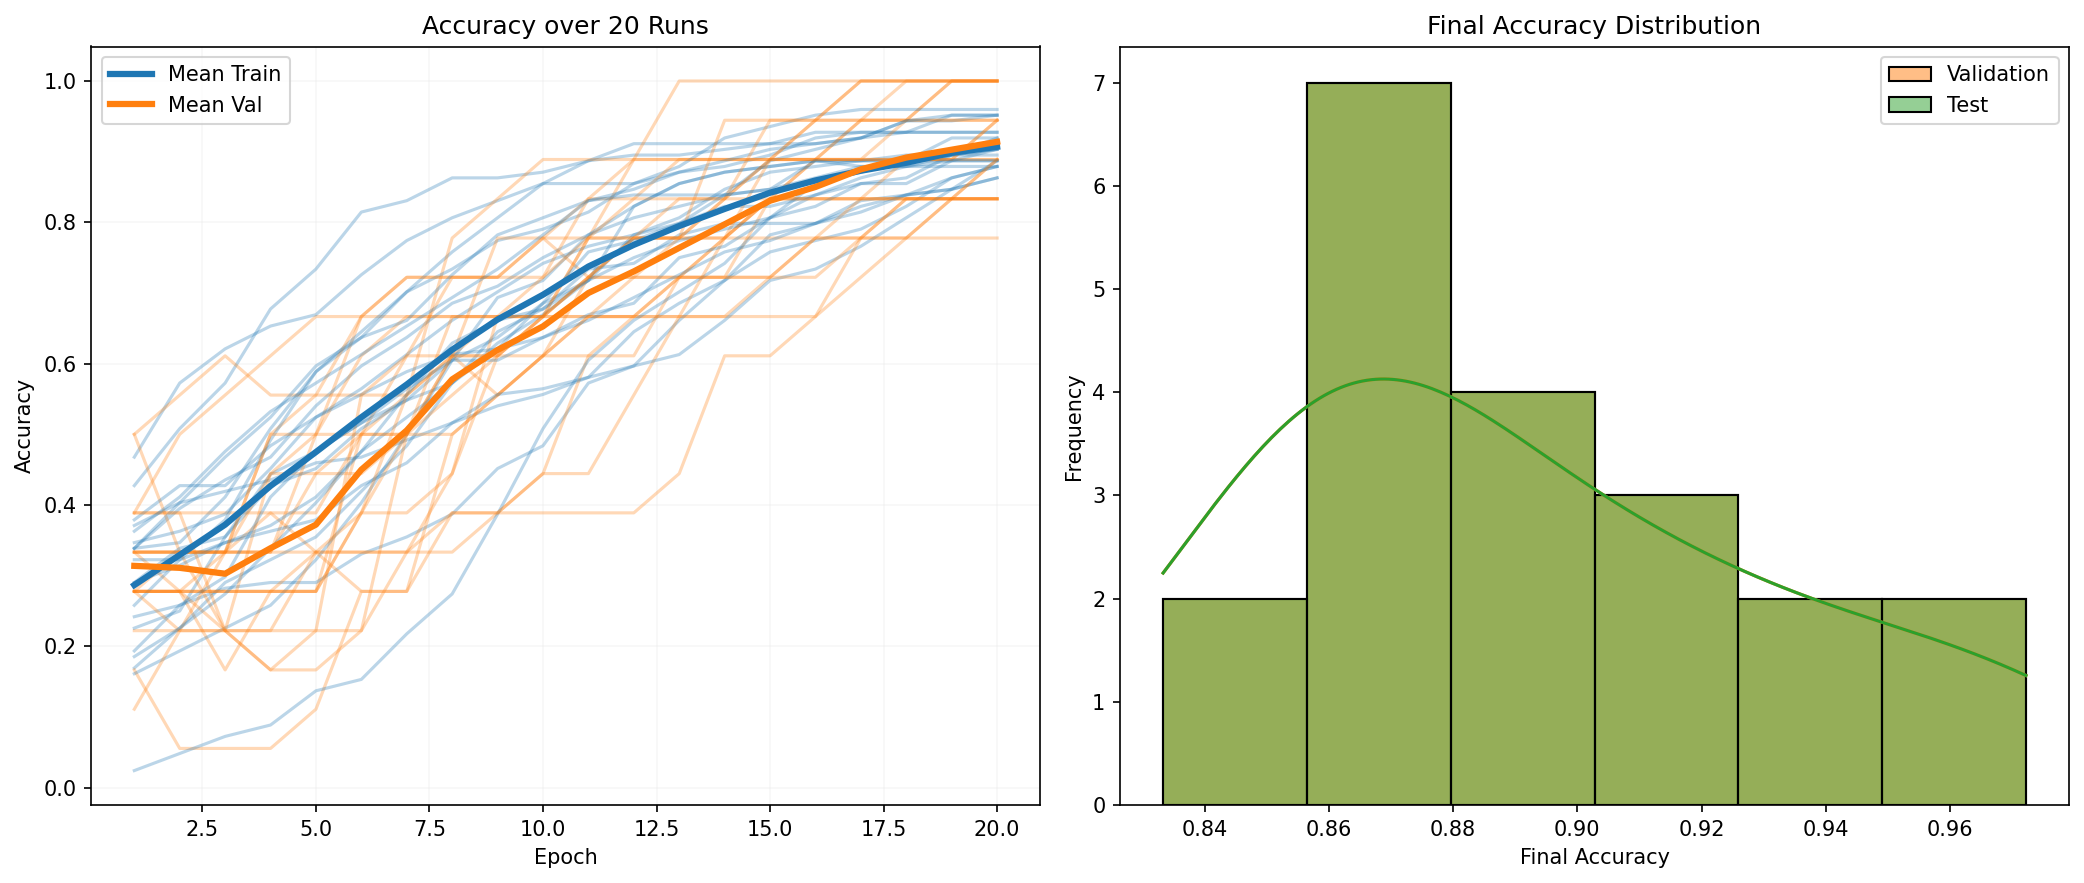
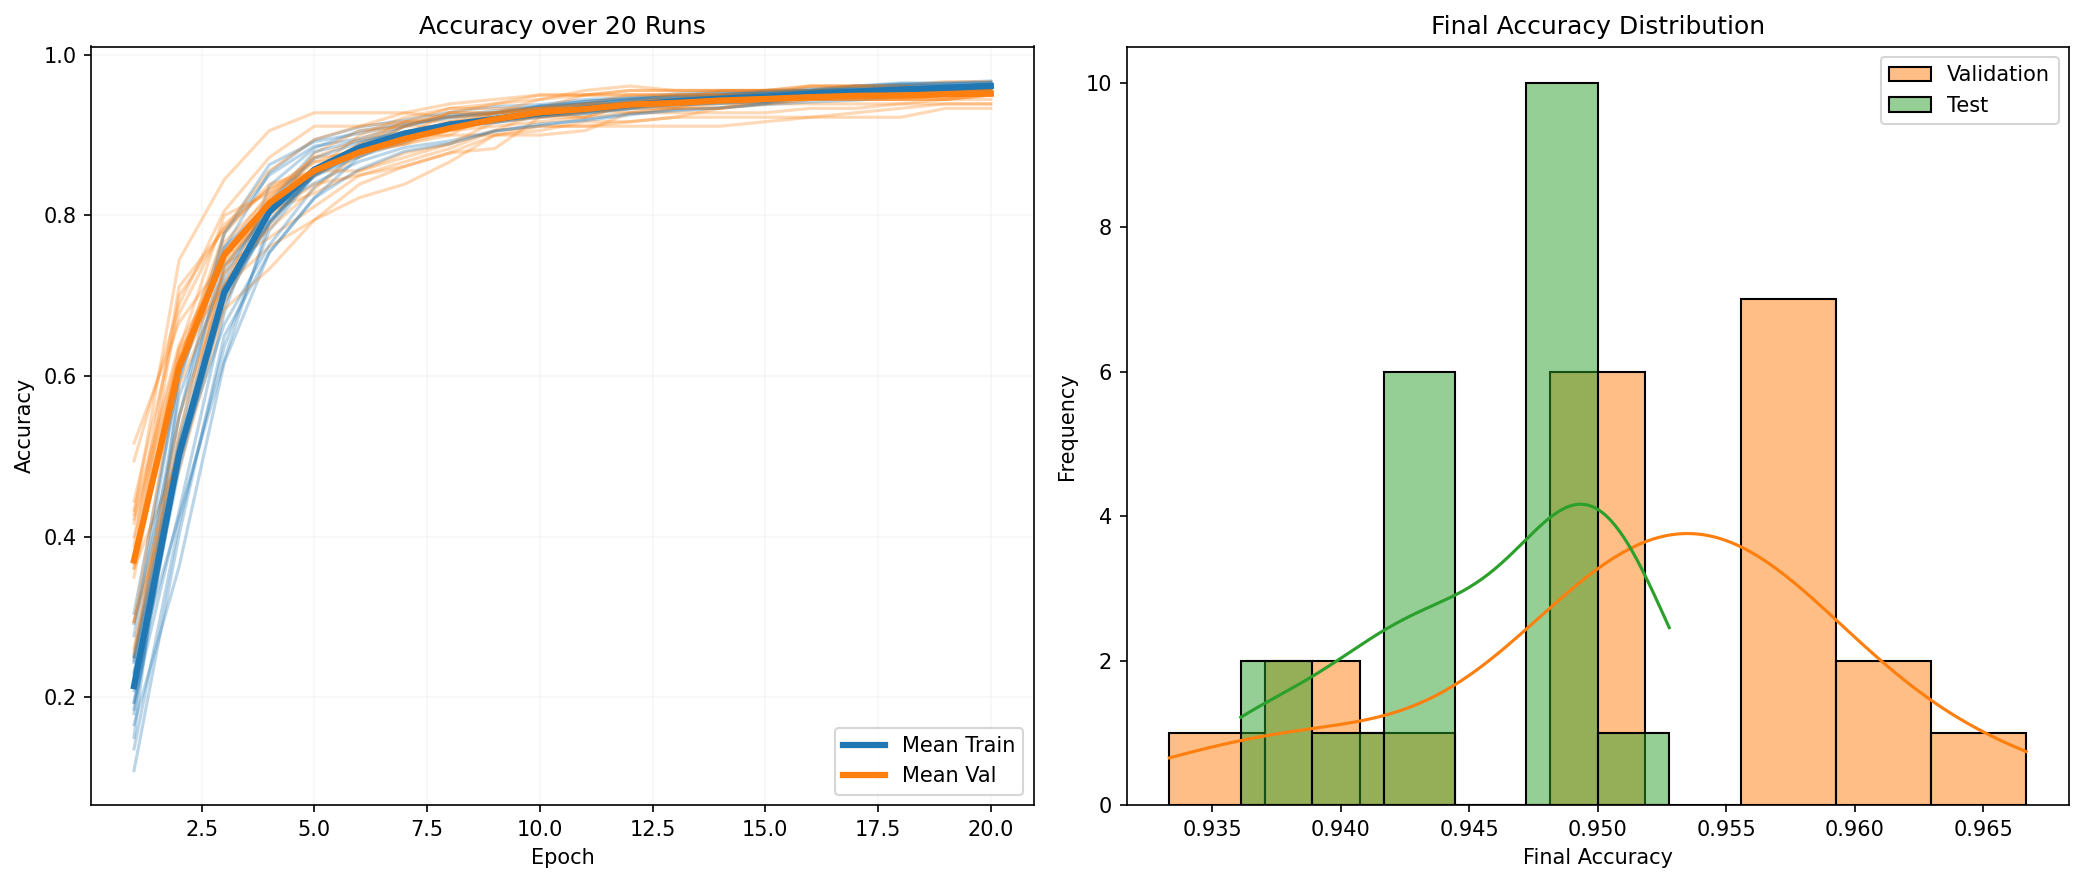
docs(readme): quick start on the digits data with a small Keras net
The 0.5.0 quick start trained a Keras net on wine, whose stratified
validation set has 18 examples, and needed a comment explaining why its
BatchNormalization layer used momentum=0.9. A first-time reader should
not need that.

The quick start now uses load_digits with a fixed Rescaling(1/16) input
layer (nothing is fitted to the data, so nothing leaks from the splits),
Dense(32) and Dense(10). The printed summary is the real output of the
code shown (TensorFlow 2.21, Keras 3.15, CPU), reproduced identically
from the README text: validation accuracy 93.3% to 96.7% across seeds
(168 to 174 of 180), test sampling error +/-1.2 pp. The paragraph below
is updated to match and keeps "no number of runs reduces it".

images/variability_summary.png is regenerated from the README's own plot
call, 150 dpi, with the preceding plotting fix: its right panel now shows
the validation and the test distributions (in 0.5.0 it showed the test
values twice).

diff --git a/README.md b/README.md
@@ -82,30 +82,24 @@ Ictonyx does **not** currently measure **sampling variability** — which is cau
 
 ## Quick start
 
-Train a small feed-forward network on the wine data from sklearn twenty times and observe the distribution of outcomes.  Here, we'll use a simple Tensorflow model.
+Train a small feed-forward network on the digits data from sklearn twenty times and observe the distribution of outcomes.  Here, we'll use a simple TensorFlow model.
 
 ```python
 import tensorflow as tf
-from sklearn.datasets import load_wine
+from sklearn.datasets import load_digits
 import ictonyx as ix
 
-data = load_wine()
-X, y = data.data, data.target
-# Ictonyx splits X into train/val/test itself, so do not fit a scaler on the
-# full array here: validation and test statistics would leak into training.
-# Scale inside the model instead (BatchNormalization on the inputs), or use
-# an sklearn Pipeline as in the comparison example below.
+X, y = load_digits(return_X_y=True)  # 8x8 images, pixel values 0 to 16
 
 
 def build_model(config):
     model = tf.keras.Sequential([
-        # momentum=0.9: in ~80 training steps the default (0.99) leaves the
-        # moving statistics near their initial values, so the model would see
-        # effectively unscaled features at evaluation time.
-        tf.keras.layers.BatchNormalization(momentum=0.9),
-        tf.keras.layers.Dense(16, activation='relu'),
-        tf.keras.layers.Dense(16, activation='relu'),
-        tf.keras.layers.Dense(3, activation='softmax')
+        tf.keras.Input(shape=(64,)),
+        # A fixed rescaling, not fitted to the data, so nothing leaks from the
+        # validation or test examples that Ictonyx splits off.
+        tf.keras.layers.Rescaling(1 / 16),
+        tf.keras.layers.Dense(32, activation='relu'),
+        tf.keras.layers.Dense(10, activation='softmax')
     ])
     model.compile(optimizer='adam',
                   loss='sparse_categorical_crossentropy',
@@ -129,60 +123,60 @@ Variability Study Results
 ==============================
 Successful runs: 20
 Seed: 42
-Data split: train 124 / val 18 / test 36
+Data split: train 1257 / val 180 / test 360
 Stratified split: yes
-Evaluation-set sampling error: +/-5.2 pp (binomial SE of test_accuracy = 0.892 at n_eval = 36). Seed variation cannot reduce this, and no seed-level test includes it.
+Evaluation-set sampling error: +/-1.2 pp (binomial SE of test_accuracy = 0.946 at n_eval = 360). Seed variation cannot reduce this, and no seed-level test includes it.
 
 Test Set Metrics:
 --------------------
 accuracy:
   N:                20
-  Mean:             0.8917
-  SD (sample, N-1): 0.0422
-  SE:               0.0094
-  Min:              0.8333
-  Max:              0.9722
+  Mean:             0.9458
+  SD (sample, N-1): 0.0051
+  SE:               0.0011
+  Min:              0.9361
+  Max:              0.9528
 loss:
   N:                20
-  Mean:             0.4901
-  SD (sample, N-1): 0.1016
-  SE:               0.0227
-  Min:              0.3229
-  Max:              0.7102
+  Mean:             0.2049
+  SD (sample, N-1): 0.0104
+  SE:               0.0023
+  Min:              0.1937
+  Max:              0.2284
 
 Training & Validation Metrics:
 --------------------
 train_accuracy:
   N:                20
-  Mean:             0.9069
-  SD (sample, N-1): 0.0303
-  SE:               0.0068
-  Min:              0.8629
-  Max:              0.9597
+  Mean:             0.9613
+  SD (sample, N-1): 0.0032
+  SE:               0.0007
+  Min:              0.9554
+  Max:              0.9674
 train_loss:
   N:                20
-  Mean:             0.5038
-  SD (sample, N-1): 0.0940
-  SE:               0.0210
-  Min:              0.3792
-  Max:              0.7088
+  Mean:             0.1893
+  SD (sample, N-1): 0.0114
+  SE:               0.0026
+  Min:              0.1725
+  Max:              0.2110
 val_accuracy:
   N:                20
-  Mean:             0.9139
-  SD (sample, N-1): 0.0732
-  SE:               0.0164
-  Min:              0.7778
-  Max:              1.0000
+  Mean:             0.9517
+  SD (sample, N-1): 0.0081
+  SE:               0.0018
+  Min:              0.9333
+  Max:              0.9667
 val_loss:
   N:                20
-  Mean:             0.5041
-  SD (sample, N-1): 0.1083
-  SE:               0.0242
-  Min:              0.3387
-  Max:              0.7007
+  Mean:             0.2255
+  SD (sample, N-1): 0.0163
+  SE:               0.0036
+  Min:              0.2025
+  Max:              0.2599
 ```
 
-On a 178-sample dataset, the same architecture produces models with validation accuracy ranging from 78% to 100% depending solely on the random seed. The validation set has 18 examples, so one example is 5.6 percentage points. Averaging over runs resolves finer than that, but every run is scored on the same small evaluation sets, and their sampling error (the ±5.2 pp that `summarize()` reports for test accuracy on 36 examples) is shared by every run: no number of runs reduces it. Classification splits are stratified by default, so each split keeps the class proportions of the whole dataset.  Ictonyx also provides for plotting of training histories:
+On the same data and the same split, the same architecture produces models with validation accuracy from 93.3% to 96.7% (168 to 174 of the 180 validation examples), depending solely on the random seed. One validation example is 0.56 percentage points. Averaging over runs resolves finer than that, but every run is scored on the same evaluation sets, and their sampling error (the ±1.2 pp that `summarize()` reports for test accuracy on 360 examples) is shared by every run: no number of runs reduces it. Classification splits are stratified by default, so each split keeps the class proportions of the whole dataset.  Ictonyx also provides for plotting of training histories:
 
 ```python
 ix.plot_variability_summary(results=results, metric='accuracy')
